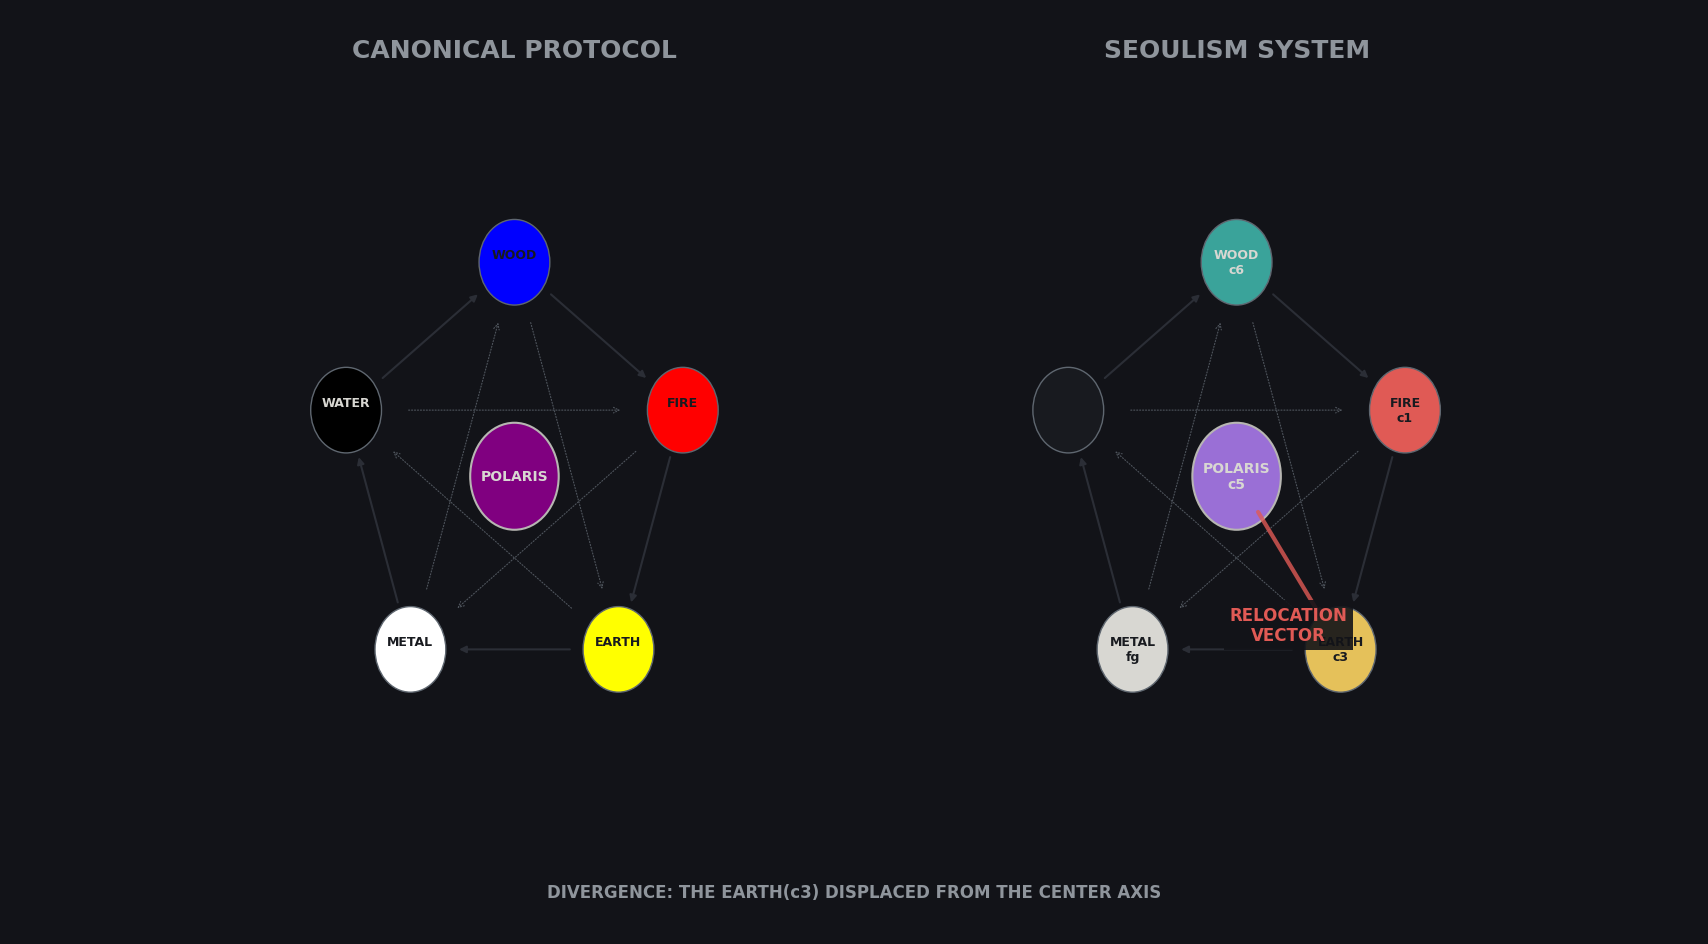
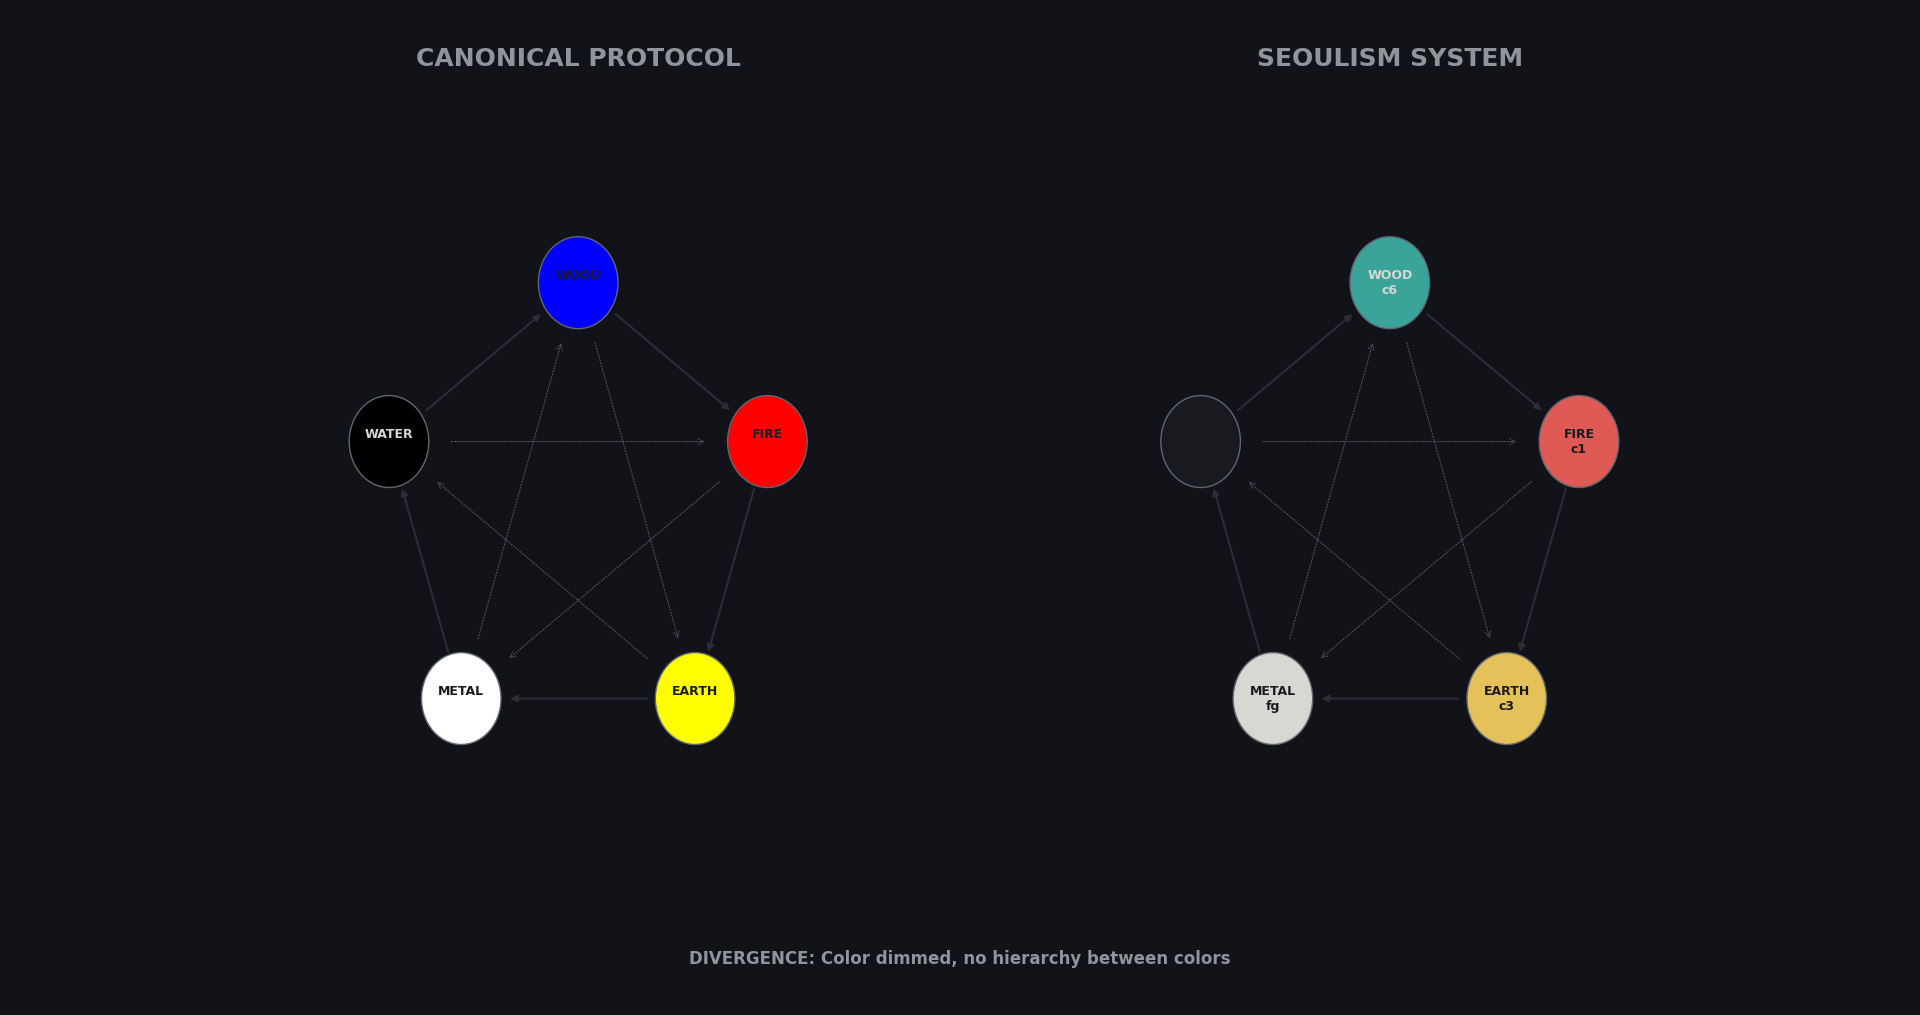
remove purple from all images

diff --git a/pentagon.py b/pentagon.py
@@ -44,17 +44,7 @@ def draw_systemic_divergence():
     render_layer(ax1, "trad", "CANONICAL PROTOCOL")
     render_layer(ax2, "seoul", "SEOULISM SYSTEM", is_seoul=True)
 
-    # Traditional Earth (0,0) -> Seoulism Earth (vertices[2])
-    target_idx = 2
-    ax2.annotate("", xy=vertices[target_idx], xytext=(0, 0),
-                 arrowprops=dict(arrowstyle="-|>", color='#e05a55', lw=3, alpha=0.8, 
-                                 shrinkA=30, shrinkB=25), zorder=12)
-
-    ax2.text(vertices[target_idx][0]*0.5, vertices[target_idx][1]*0.5 - 0.2, 
-             "RELOCATION\nVECTOR", color='#e05a55', fontsize=12, fontweight='black', 
-             ha='center', va='top', bbox=dict(facecolor='#121318', edgecolor='none', alpha=0.9), zorder=13)
-
-    plt.figtext(0.5, 0.05, "DIVERGENCE: THE EARTH(c3) DISPLACED FROM THE CENTER AXIS", 
+    plt.figtext(0.5, 0.05, "DIVERGENCE: Color dimmed, no hierarchy between colors", 
                 color='#8f959c', fontsize=12, ha='center', fontweight='bold')
 
     plt.savefig('pentagon_cycle.png', facecolor='#121318', dpi=300, bbox_inches='tight')

diff --git a/visualizer.py b/visualizer.py
@@ -11,7 +11,7 @@ def draw_seoulism_chain():
     # This maps the ancestral systemic logic to the actual Vim palette provided.
     chains = [
         ("Birth", "Wood", "Blue/Jade", "#0000FF", "Jade (c6)", "#3aa39a", "Format / Function"),
-        ("Dread", "Fire", "Red", "#FF0000", "Red (c1)", "#e05a55", "Alert / Error"),
+        ("Dread", "Fire", "Red", "#FF0000", "Red (c1)", "#e05a55", "Alert / Error / Syntax"),
         ("Origin", "Earth", "Yellow", "#FFFF00", "Gold (c3)", "#e5c15a", "Literal / Data"),
         ("Structure", "Metal", "White", "#FFFFFF", "Foreground", "#d8d7d2", "Base / Structure"),
         ("Void", "Water", "Black", "#000000", "Background", "#181a1f", "Space / Void"),
